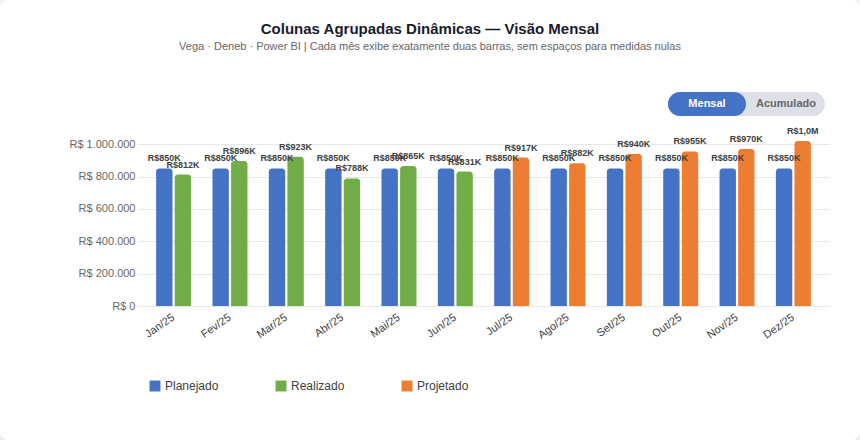
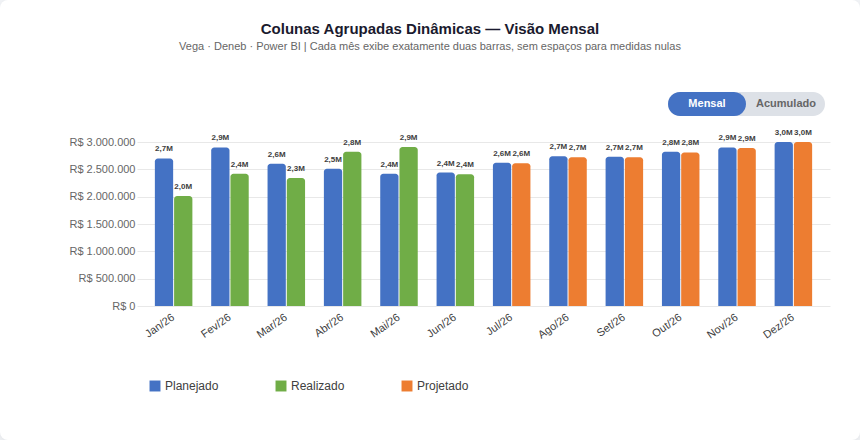
fix: espaçamento do botão e sobreposição de rótulos
- alturaHeader 44 -> 58: reserva mais espaço no topo para o botão não colar
  nos rótulos das barras mais altas
- Rótulos: remove prefixo 'R$' e reduz fonte 9 -> 8 (rótulos muito mais estreitos)
- paddingBarra 0.12 -> 0.05: afasta os centros das duas barras, dando mais folga
  entre os rótulos
- Valores >= 10M sem casa decimal ('32M' em vez de '32,4M') para a visão acumulada
- Dados de teste atualizados para faixa de milhões (replica cenário real do usuário)

Claude-Session: https://claude.ai/code/session_01HQgsvVUKrhHCweFNUpnVTR

Changed region(s): [[0.0605, 0.2955, 0.9674, 0.7091]]

diff --git a/preview/chart.html b/preview/chart.html
@@ -78,12 +78,12 @@
         {"name": "corReal",        "value": "#70AD47"},
         {"name": "corProj",        "value": "#ED7D31"},
         {"name": "paddingGrupo",   "value": 0.3},
-        {"name": "paddingBarra",   "value": 0.12},
+        {"name": "paddingBarra",   "value": 0.05},
         {"name": "raioAresta",     "value": 3},
         {"name": "mostrarRotulos", "value": true},
-        {"name": "tamanhoRotulo",  "value": 9},
+        {"name": "tamanhoRotulo",  "value": 8},
         {"name": "fontePadrao",    "value": "Segoe UI, sans-serif"},
-        {"name": "alturaHeader",   "value": 44},
+        {"name": "alturaHeader",   "value": 58},
         {
           "name": "modoAcumulado",
           "value": false,
@@ -110,18 +110,18 @@
         {
           "name": "source",
           "values": [
-            {"Ano_Mes_abrev": "Jan/25", "m_Plan": 850000, "m_Real": 812000, "m_Proj": null},
-            {"Ano_Mes_abrev": "Fev/25", "m_Plan": 850000, "m_Real": 896000, "m_Proj": null},
-            {"Ano_Mes_abrev": "Mar/25", "m_Plan": 850000, "m_Real": 923000, "m_Proj": null},
-            {"Ano_Mes_abrev": "Abr/25", "m_Plan": 850000, "m_Real": 788000, "m_Proj": null},
-            {"Ano_Mes_abrev": "Mai/25", "m_Plan": 850000, "m_Real": 865000, "m_Proj": null},
-            {"Ano_Mes_abrev": "Jun/25", "m_Plan": 850000, "m_Real": 831000, "m_Proj": null},
-            {"Ano_Mes_abrev": "Jul/25", "m_Plan": 850000, "m_Real": null,   "m_Proj": 917000},
-            {"Ano_Mes_abrev": "Ago/25", "m_Plan": 850000, "m_Real": null,   "m_Proj": 882000},
-            {"Ano_Mes_abrev": "Set/25", "m_Plan": 850000, "m_Real": null,   "m_Proj": 940000},
-            {"Ano_Mes_abrev": "Out/25", "m_Plan": 850000, "m_Real": null,   "m_Proj": 955000},
-            {"Ano_Mes_abrev": "Nov/25", "m_Plan": 850000, "m_Real": null,   "m_Proj": 970000},
-            {"Ano_Mes_abrev": "Dez/25", "m_Plan": 850000, "m_Real": null,   "m_Proj": 1020000}
+            {"Ano_Mes_abrev": "Jan/26", "m_Plan": 2700000, "m_Real": 2010000, "m_Proj": null},
+            {"Ano_Mes_abrev": "Fev/26", "m_Plan": 2900000, "m_Real": 2420000, "m_Proj": null},
+            {"Ano_Mes_abrev": "Mar/26", "m_Plan": 2600000, "m_Real": 2340000, "m_Proj": null},
+            {"Ano_Mes_abrev": "Abr/26", "m_Plan": 2510000, "m_Real": 2820000, "m_Proj": null},
+            {"Ano_Mes_abrev": "Mai/26", "m_Plan": 2420000, "m_Real": 2910000, "m_Proj": null},
+            {"Ano_Mes_abrev": "Jun/26", "m_Plan": 2440000, "m_Real": 2410000, "m_Proj": null},
+            {"Ano_Mes_abrev": "Jul/26", "m_Plan": 2620000, "m_Real": null,   "m_Proj": 2610000},
+            {"Ano_Mes_abrev": "Ago/26", "m_Plan": 2740000, "m_Real": null,   "m_Proj": 2720000},
+            {"Ano_Mes_abrev": "Set/26", "m_Plan": 2730000, "m_Real": null,   "m_Proj": 2720000},
+            {"Ano_Mes_abrev": "Out/26", "m_Plan": 2820000, "m_Real": null,   "m_Proj": 2810000},
+            {"Ano_Mes_abrev": "Nov/26", "m_Plan": 2900000, "m_Real": null,   "m_Proj": 2890000},
+            {"Ano_Mes_abrev": "Dez/26", "m_Plan": 3000000, "m_Real": null,   "m_Proj": 3000000}
           ]
         },
         {
@@ -410,7 +410,7 @@
                   "fontWeight": {"value": "600"},
                   "fill":       {"value": "#404040"},
                   "text": {
-                    "signal": "mostrarRotulos ? (datum.valor >= 1000000 ? 'R$' + format(datum.valor / 1000000, ',.1f') + 'M' : 'R$' + format(datum.valor / 1000, ',.0f') + 'K') : ''"
+                    "signal": "mostrarRotulos ? (datum.valor >= 10000000 ? format(datum.valor / 1000000, ',.0f') + 'M' : (datum.valor >= 1000000 ? format(datum.valor / 1000000, ',.1f') + 'M' : format(datum.valor / 1000, ',.0f') + 'K')) : ''"
                   }
                 }
               }
